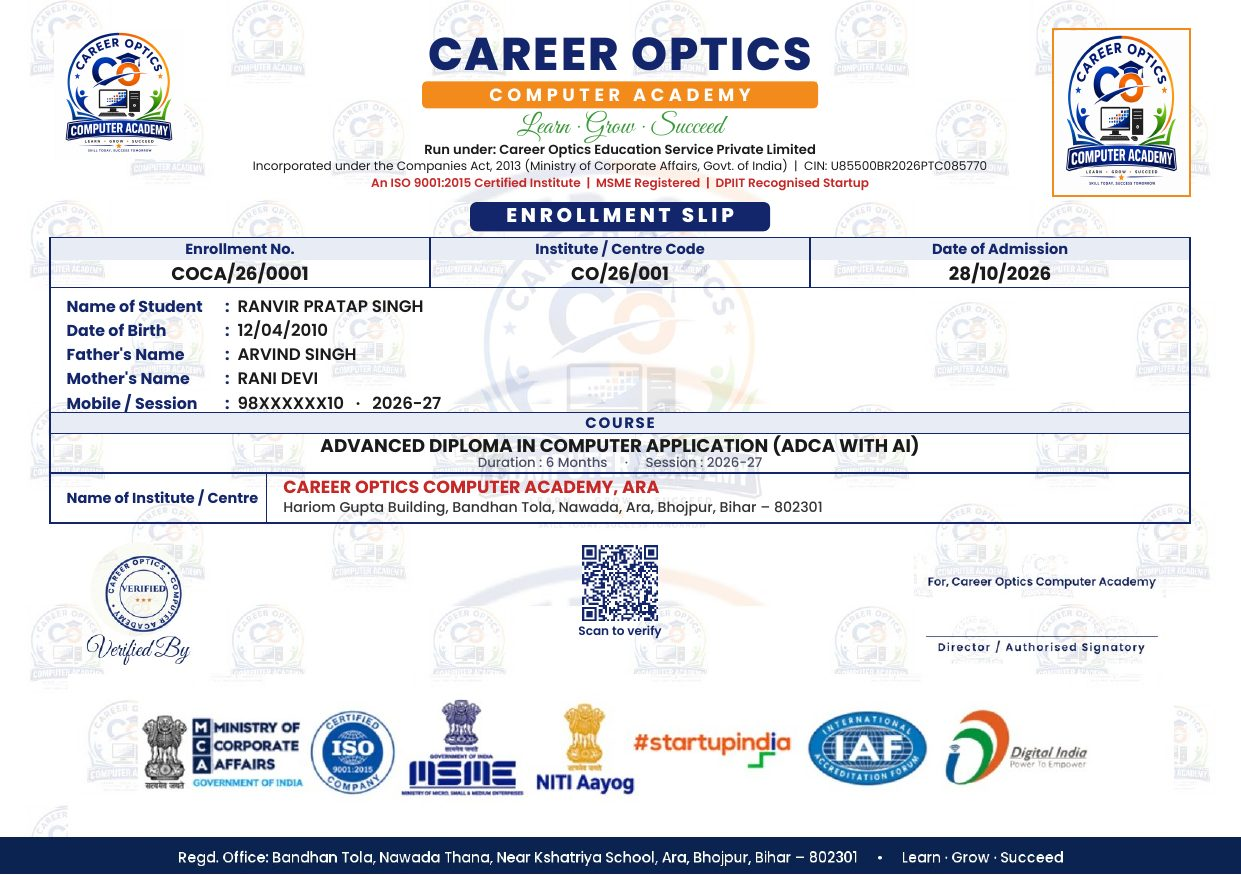
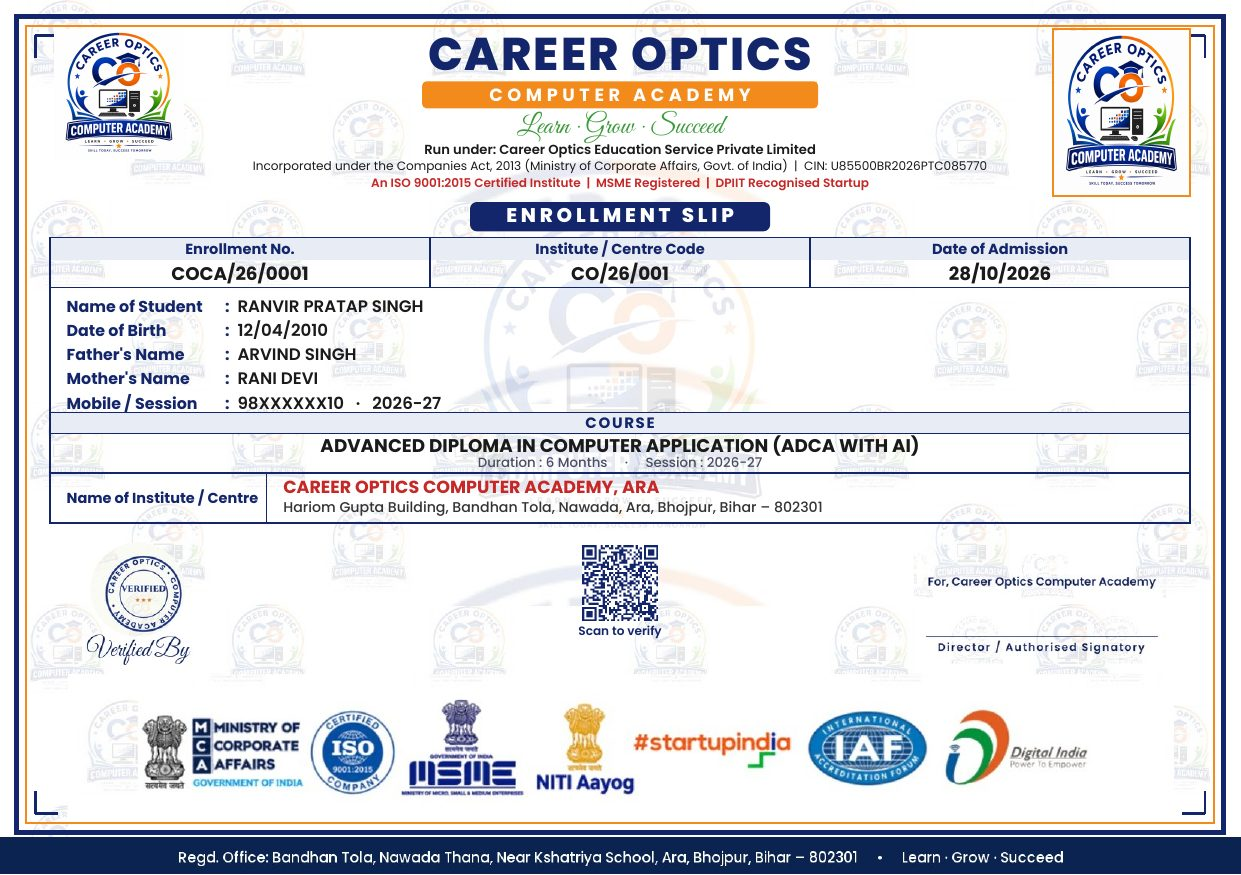
Frame the enrollment slip
The same double border as the admission form, navy outside and orange
inside with corner marks, above the footer band.

Changed region(s): [[0.0, 0.0, 1.0, 0.9566]]

diff --git a/organization/src/lib/brand/brandDocuments.ts b/organization/src/lib/brand/brandDocuments.ts
@@ -842,6 +842,26 @@ const SLIP = { w: 595.3, h: 419.5 };
 export async function drawEnrollmentSlip(doc: jsPDF, e: EnrollmentSlip) {
   await registerBrandFonts(doc, ["Poppins-Regular", "Poppins-Medium", "Poppins-SemiBold", "Poppins-Bold", "Poppins-ExtraBold", "GreatVibes-Regular"]);
   await background(doc, "enrollment-slip.jpg", SLIP.w, SLIP.h);
+
+  // A double frame above the footer band, as the admission form has: navy outside, orange inside, corner marks
+  const frameBottom = SLIP.h - 20;
+  doc.setDrawColor(...rgb(NAVY));
+  doc.setLineWidth(pt(2.2));
+  doc.rect(pt(8), pt(8), pt(SLIP.w - 16), pt(frameBottom - 8));
+  doc.setDrawColor(...rgb(ORANGE));
+  doc.setLineWidth(pt(0.8));
+  doc.rect(pt(12.5), pt(12.5), pt(SLIP.w - 25), pt(frameBottom - 17));
+  doc.setDrawColor(...rgb(NAVY));
+  doc.setLineWidth(pt(1.2));
+  const corner = (x: number, y: number, dx: number, dy: number) => {
+    doc.line(pt(x), pt(y), pt(x + dx * 11), pt(y));
+    doc.line(pt(x), pt(y), pt(x), pt(y + dy * 11));
+  };
+  corner(17, 17, 1, 1);
+  corner(SLIP.w - 17, 17, -1, 1);
+  corner(17, frameBottom - 9, 1, -1);
+  corner(SLIP.w - 17, frameBottom - 9, -1, -1);
+
   const left = 24;
   const right = SLIP.w - 24;
   const W = right - left;
